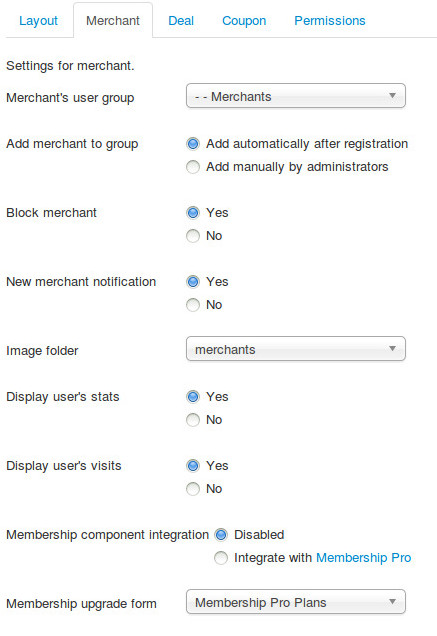
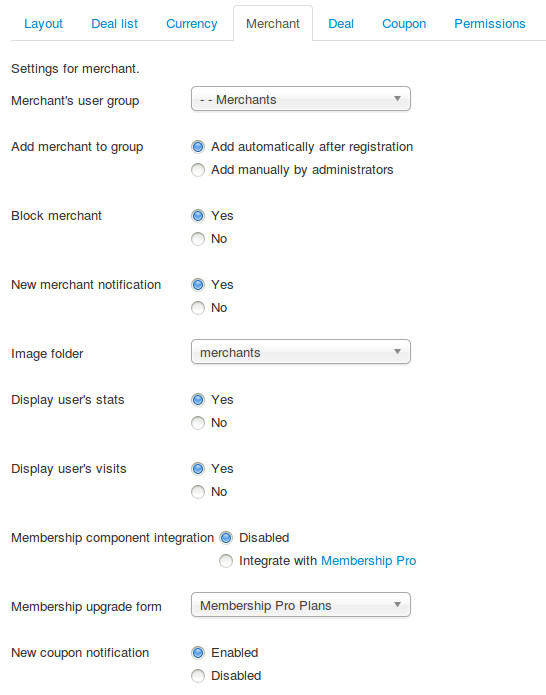
1.4.0

diff --git a/conf.py b/conf.py
@@ -51,9 +51,9 @@ copyright = u'2014-2015, CMExtension'
 # built documents.
 #
 # The short X.Y version.
-version = '1.3.0'
+version = '1.4.0'
 # The full version, including alpha/beta/rc tags.
-release = '1.3.0-beta'
+release = '1.4.0-beta'
 
 # The language for content autogenerated by Sphinx. Refer to documentation
 # for a list of supported languages.

diff --git a/pages/configuration.rst b/pages/configuration.rst
@@ -69,7 +69,7 @@ The dashboard is displayed by default.
 
 On the toolbar there is a button "Options", you click this button to configure the component.
 
-On the configuration page, the settings are grouped into 5 tabs: Layout, Merchant, Deal, Coupon and Permissions.
+On the configuration page, the settings are grouped into 7 tabs: Layout, Deal list, Currency Merchant, Deal, Coupon and Permissions.
 
 Layout
 ^^^^^^
@@ -82,9 +82,31 @@ Layout
 * **Map's default location**: The default location of Google Maps when the map is displayed, used in both front-end and back-end. You can click on the map or move the marker to the location you want.
 * **Date format**: Date format that is used in front-end.
 * **Time format**: Time format that is used in front-end.
+
+Deal list
+^^^^^^^^^
+
+.. image:: ../images/com_cmlivedeal_deal_list.jpg
+
 * **Default pagination limit**: The quantity of deals that are displayed in deal list by default.
 * **Show pagination limit option**: Show an option to select the quantity of deals that are displayed in 1 page in deal list.
 * **Show pagination sorting option**: Show an option to select how deals in deal list are sorted.
+* **Show price tag**: Show price tag at the top left corner of every deal in deal list. This price tag contains discounted price, discounted value or discount percent.
+* **Show original and discounted prices**: Show original price and discounted price of deal of it has these prices.
+* **Price tag of deals which have discounted price**: If deal has original price and discounted price, you show discounted price or discount value (how much customers save). For example, if orginal price is $100, discounted price is $40, you can show $40 (discounted price) or $60 (discount value).
+* **Thumbnail width**: The width of deal image in deal list calculated by Bootsrap framework's 12 grid column. You can select one of the 3 options and refresh your front-end deal list until it looks good for you.
+
+Currency
+^^^^^^^^
+
+.. image:: ../images/com_cmlivedeal_currency.jpg
+
+* **Currency symbol**: Currency symbol which is used for original price, discounted price and discounted value.
+* **Currency symbol's position**: Where currency symbol is displayed, before or after amount.
+* **Currency decimals**: The number of decimals in currency.
+* **Decimal point**: The character which is used as decimal point.
+* **Thousands separator**: The character which is used as thousands separator.
+
 
 Merchant
 ^^^^^^^^
@@ -104,6 +126,7 @@ Merchant
 * **Display user's visits**: Display coupon owner's visits to merchant's. This info lets merchant know if coupon owner is a returned customer.
 * **Membership component integration**: To enable membership integration, select a membership Joomla! component to integrate with. Membership Plans menu item will be available in the component's menu for you to create and configure your membership plans.
 * **Membership upgrade form**: The menu item for upgrading membership. The link to this menu item is displayed in merchant's deal management page when merchant reaches his/her limit of created deal quantity. This option is only used if membership integration is enabled.
+* **New coupon notification**: Send email to merchant when there is new coupon captured.
 
 Deal
 ^^^^
@@ -116,6 +139,8 @@ Deal
 * **Location cookie's lifetime**: Detect user's location requires reading the database file and make the server slow. User's location can be stored in cookie and reused later to reduce the file reads from server. With this option you can set how many days this cookie is available. Default value is 7 (days). You can disable storing cookie by using 0 value. You can view :ref:`ref-search` for more information.
 * **Display merchant's photos**: Display the slideshow for merchant's photos in deal's popup.
 * **Auto approve new deals**: If enabled, new deals that are submitted by merchants are approved and published by default. Enable this option if you don't want to manually check and approve/publish every submitted deal.
+* **Merchant can edit published deals**: Allow merchants to edit their own deals after the deals are published and visible to customers.
+* **Prices and discount input**: Enable options for original price, discounted price and fixed discount values of the deal in deal submission form.
 
 Coupon
 ^^^^^^
@@ -130,6 +155,8 @@ Coupon
   * *Latin alphabetic and numeric*: for example, "F52H2".
 
 * **QR code's size**: The size of coupon's QR code in pixel.
+* **Guest can get coupon**: Allow guests can capture coupons without registering accounts.
+* **Limit coupon quantity**: Enable this option to give administrators and merchants ability to set and change coupon quantity for every deal. If this option is disabled, coupon quantity is unlimited.
 
 Permissions
 ^^^^^^^^^^^

diff --git a/pages/deals.rst b/pages/deals.rst
@@ -25,9 +25,19 @@ You need to enter your deal's details: name, description, fine print, starting d
 
 To assign an image to your deal, you click "Select" button to open image popup. Before selecting/uploading a new image, you must select a merchant first, this merchant will be the owner of any image you upload while you are creating/modifying the deal, unless you select a different merchant. You can only assign 1 image to a deal.
 
+If you enable "Prices and discount input" option in the component's configuration, "Discount info" is displayed in the form, there are 3 types of discount info available:
+
+* Original price and discounted price. For example: original price was $50 but now discounted price is $30.
+* Fixed discount value. For example: $10 discount for orders over $50.
+* Fixed discount percent. For example: 10% discount for orders over $50.
+
+If deal has a discount method which is not fit to these 3 discount types, you can select "None" option. Original price, discounted price can be displayed in deal list and deal popup. Fixed discount value and fixed discount percent can be dispayed in deal list.
+
 If you want to publish the deal, you need to set "Status" to "Published" and "Approval" to "Yes". However the deal is visible to users or not also depends on starting and ending time.
 
 "Approval" is for marking that if administrator has already reviewed and approved the deal which is submitted by merchant in front-end. When deal is approved, merchant can't change deal details any more, he/she only can modify starting and ending date.
+
+If you enable "Limit coupon quantity" in the component's configuration, "Coupon quantity" field is displayed in the form. You can enter the quantity of coupons that you allow customers to capture, if you want unlimited quantity, you can enter 0.
 
 Other fields in the form:
 
@@ -82,8 +92,15 @@ The form has the following fields:
 * **Title**: The deal's name.
 * **Category**: The category which the deal is in.
 * **Image**: Merchant can click "Select" button to open a popup and select an uploaded image, merchant can also upload a new image.
+* **Discount info**: Similar to the deal submission form in back-end, this option provides 3 types of discount, if the deal has a different discount info you can select "None" option. This field only appear if "Prices and discount input" option is enabled in the component's configuration
+
+  * Original price and discounted price. For example: original price was $50 but now discounted price is $30.
+  * Fixed discount value. For example: $10 discount for orders over $50.
+  * Fixed discount percent. For example: 10% discount for orders over $50.
+
 * **Description**: The deal's description.
 * **Fine print**: The deal's terms and conditions.
+* **Coupon quantity**: This field is only visible if "Limit coupon quantity" in the component's configuration is enabled. You can enter the quantity of how many coupon you want customers to get, if you want unlimited quantity you can enter "0".
 * **Starting time**: When the deal starts public to users.
 * **Ending time**: When the deal expires and is not visible to users any more.
 * **Published**: Deal's published status.

diff --git a/pages/userstats.rst b/pages/userstats.rst
@@ -16,6 +16,7 @@ If (2) value is equal to (1) value, this means the user always comes to redeem t
 
 If (1) value is much greater than (2) value, the merchant shouldn't expect that the user will come to the merchant to redeem the current coupon.
 
+Captured and Redeemed values are not available if the owner of the coupon is a guest.
 
 User visits
 -----------
